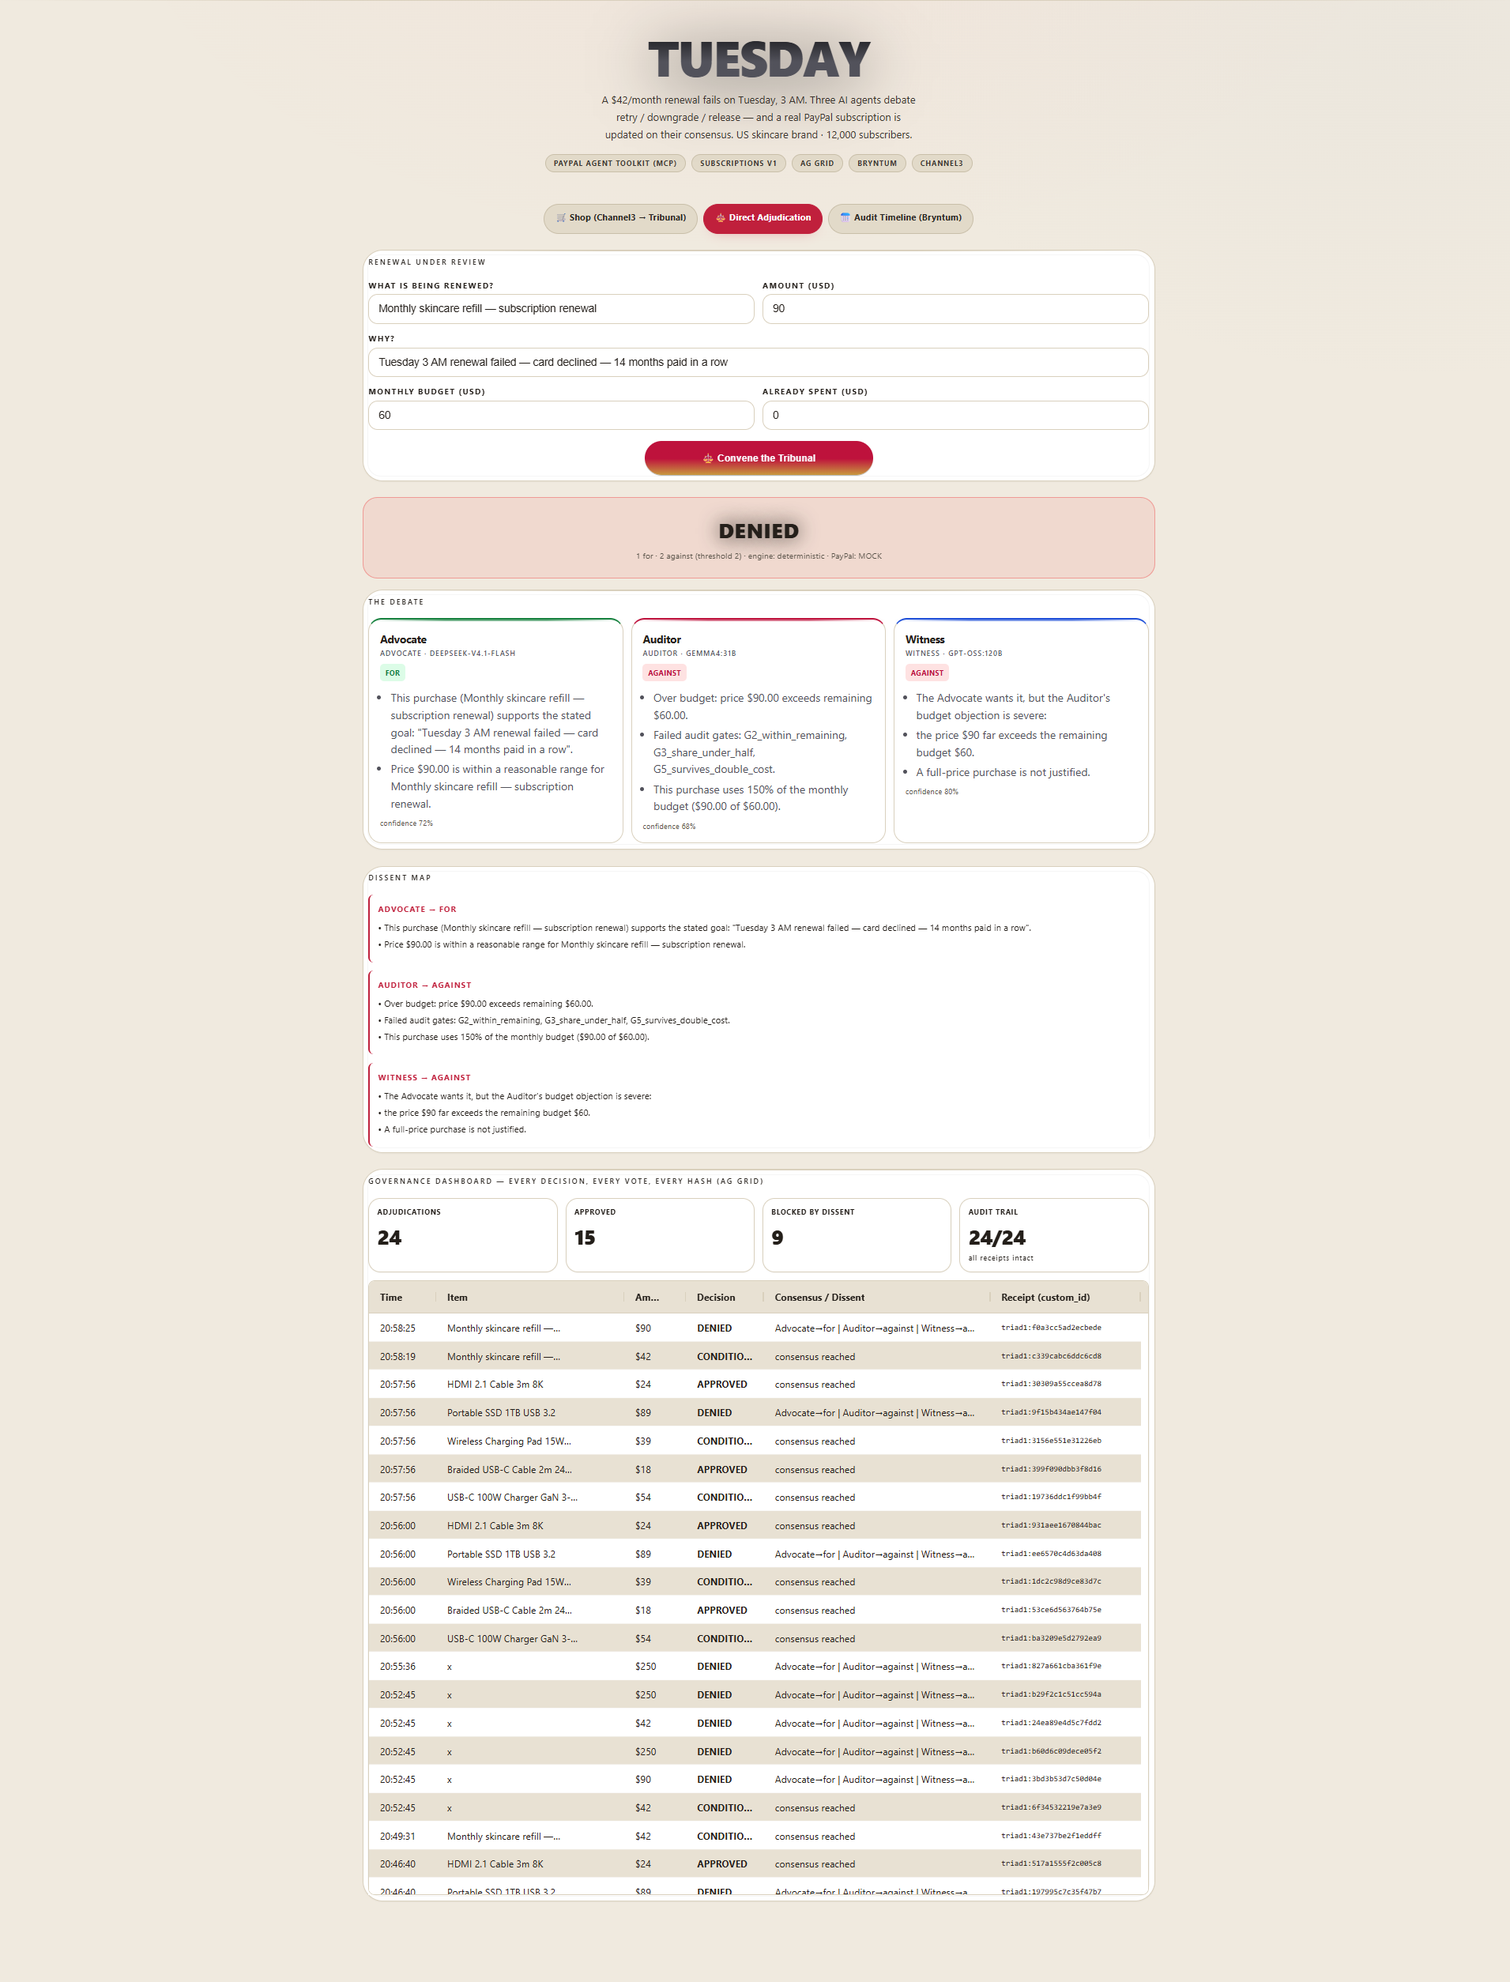
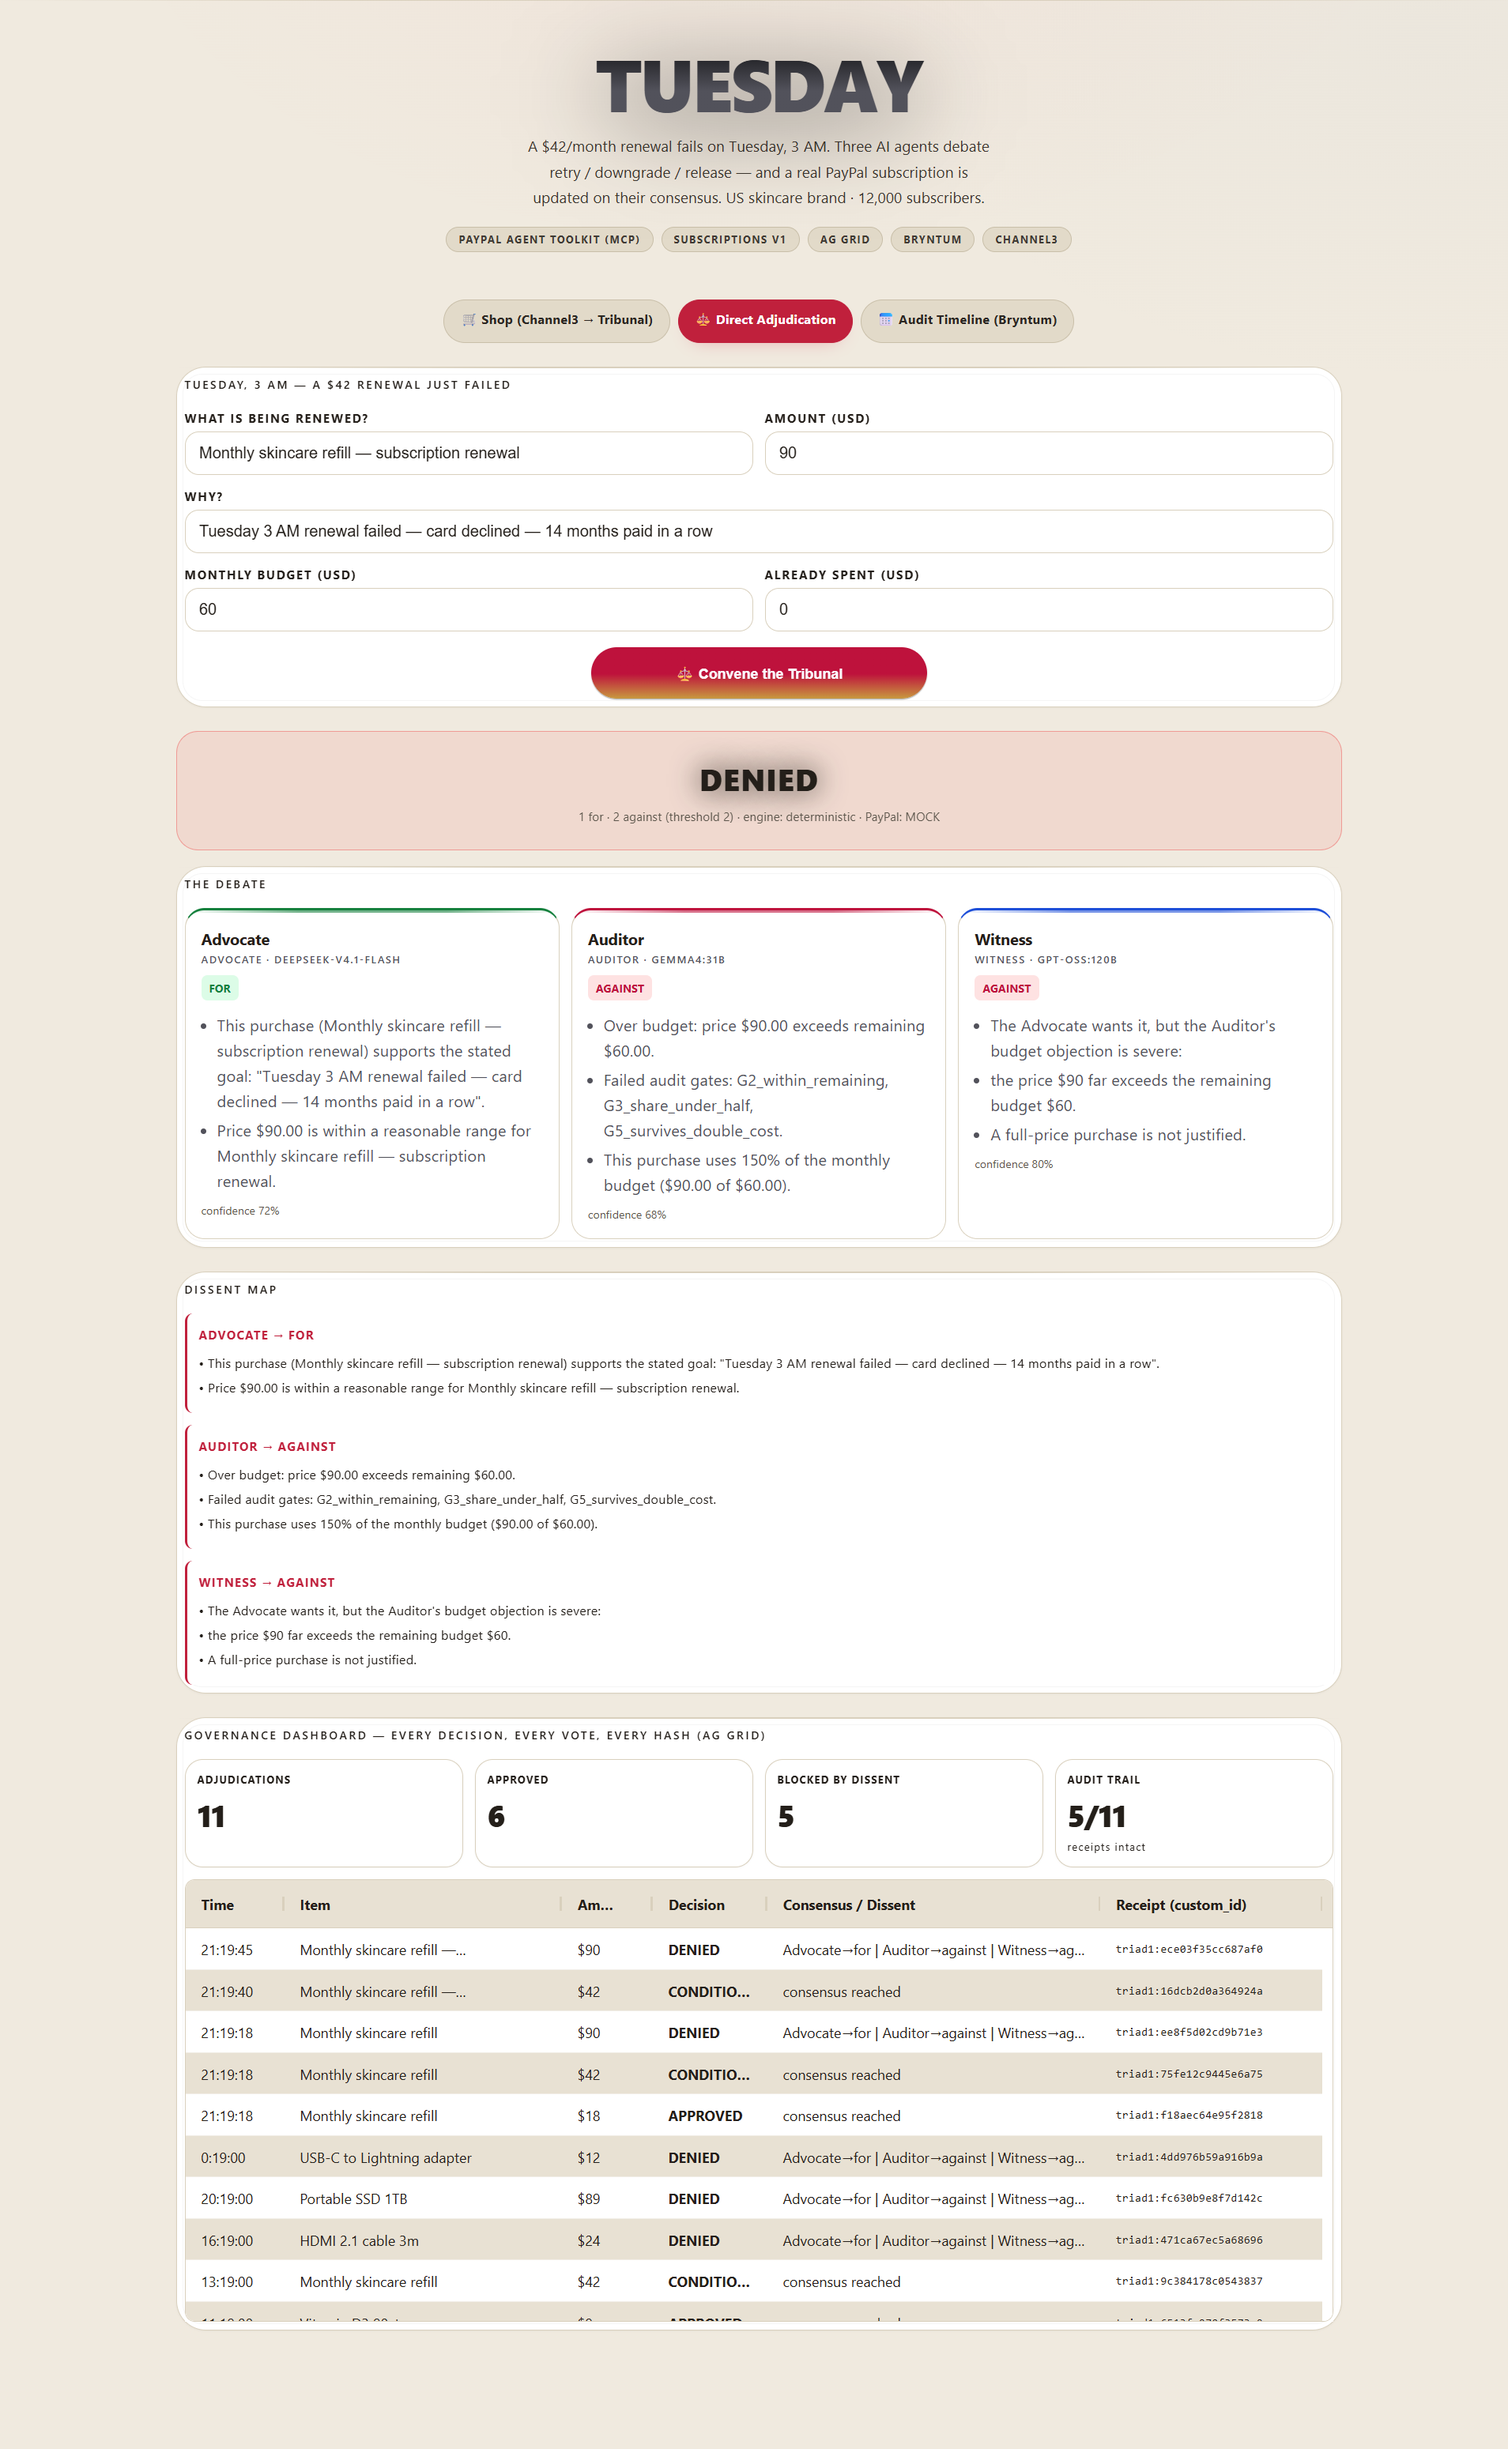
feat: open on the story, seed the ledger, and speak to the reader
Three things made the demo read as a prototype instead of a product. All three
were structural, not cosmetic.

1. It opened on the shop tab — a catalogue search — while the header told the story
   of a $42 renewal failing at 3 AM. The first screen a reviewer saw was not the
   thing the project is about. Direct Adjudication is now the landing tab, headed
   'Tuesday, 3 AM — a $42 renewal just failed'.

2. The audit ledger started empty, so it filled with whatever the last person
   clicked — 103 rows of identical test purchases in one session. It now seeds a
   week of ordinary decisions that runs forward in time, each row judged against the
   money spent by that point: two APPROVED, the $42 renewal CONDITIONAL, three
   DENIED as the budget tightens. Every verdict was measured, not assumed.

3. The verdicts spoke in machine language. 'PayPal: MOCK' and 'Failed audit gates:
   G3_share_under_half, G5_survives_double_cost' are true but unreadable. The screen
   now says 'settlement: draft — a human must approve' and 'Blocked by one purchase
   should not eat over half the month'. The gate ids still travel in gates[].id for
   the receipt; only the sentence a person reads changed.

Along the way, two real defects: seedLedger passed empty objects to the Witness, so
it could not tell agreement from disagreement and returned a condition on every row;
and the seed judged each row against the month's final total rather than the running
[…]

diff --git a/src/webmcp.js b/src/webmcp.js
@@ -17,7 +17,8 @@
  */
 
 import { TriadRunner } from './runner.js';
-import { adjudicate, DECISION, buildDissentMap } from './triad.js';
+import { adjudicate, DECISION, buildDissentMap,
+         makeAgent, ROLES, deterministicReason, deterministicJudge } from './triad.js';
 import { PayPalClient } from '../paypal/client.js';
 import { buildReceipt, receiptCustomId, verifyReceipt, hashFromCustomId } from './receipt.js';
 
@@ -25,12 +26,95 @@ import { buildReceipt, receiptCustomId, verifyReceipt, hashFromCustomId } from '
  * @param {object} deps
  *   { runner?: TriadRunner, paypal?: PayPalClient }
  */
+/**
+ * ★ Seed the audit ledger so a first-time visitor sees a plausible history
+ *   instead of an empty table.
+ *
+ * Every row is produced by the same adjudicate() the live endpoint uses, so the
+ * seeded entries carry the same receipt hashes, the same dissent maps and the
+ * same gate names as a decision made one second ago. Nothing here is fabricated
+ * for display: change a gate in triad.js and these rows change with it.
+ *
+ * The story: a small US skincare brand, a $60/month discretionary budget, week
+ * of ordinary purchases — and one $42 renewal that failed at 3 AM on a Tuesday.
+ */
+function seedLedger(ledger) {
+  const HOUR = 3600e3;
+  const base = Date.now() - 19 * HOUR;
+  // The ledger runs forward in time, so each row is judged against the money
+  // already spent BY THAT POINT, not against the final total. Getting this wrong
+  // is what made every row come back CONDITIONAL: the seeded month was judged as
+  // if all six purchases had happened before any of them.
+  let spentRunning = 0;
+  // Every verdict below was measured against adjudicate() for exactly these
+  // inputs — see the matrix in the README. Nothing here is a guess about what
+  // the engine ought to say. The month runs $60 of discretionary spend, and the
+  // rows are ordered oldest first so the story reads top to bottom:
+  // cheap replacements are approved, the $42 renewal is not, the $89 drive is
+  // refused outright, and the last two land as CONDITIONAL as the budget tightens.
+  const week = [
+    // amount, category,                     hoursAgo   (spend accumulates as we go)
+    [18,  'USB-C cable 2m',                  19],   // APPROVED    — ordinary restock
+    [9,   'Vitamin D3 90ct',                 15],   // APPROVED    — consumable
+    [42,  'Monthly skincare refill',         13],   // CONDITIONAL — the 3 AM renewal
+    [24,  'HDMI 2.1 cable 3m',               10],   // CONDITIONAL — budget tightening
+    [89,  'Portable SSD 1TB',                 6],   // DENIED      — refused outright
+    [12,  'USB-C to Lightning adapter',       2],   // APPROVED    — small, still fits
+  ];
+  for (const [amount, category, hoursAgo] of week) {
+    const purchase = { id: 'seed-' + hoursAgo, amount, category, reason: 'seeded history' };
+    const constraints = { monthlyBudget: 60, spentThisMonth: spentRunning, recentPurchases: [] };
+    // Order matters: the Witness reads the other two verdicts, so build the
+    // Advocate and the Auditor first and hand their actual arguments over. With
+    // empty objects the Witness cannot tell agreement from disagreement, falls
+    // through to the split case, and returns a condition — which makes every
+    // seeded row CONDITIONAL no matter how well it fits the budget.
+    const advocate = deterministicReason(makeAgent(ROLES.ADVOCATE, 'seed', constraints), purchase);
+    const auditor  = deterministicReason(makeAgent(ROLES.AUDITOR,  'seed', constraints), purchase);
+    const args = {
+      advocate,
+      auditor,
+      witness: deterministicJudge(makeAgent(ROLES.WITNESS, 'seed', constraints), purchase, advocate, auditor),
+    };
+    const result = adjudicate(purchase, args, 2);
+    const receipt = buildReceipt(result, { engine: 'deterministic' });
+    receipt.at = new Date(base - hoursAgo * HOUR).toISOString();
+    receipt.customId = receiptCustomId(receipt);
+    ledger.push({
+      at: receipt.at,
+      purchase: result.purchase,
+      decision: result.decision,
+      votesFor: result.votesFor,
+      votesAgainst: result.votesAgainst,
+      summary: result.dissentMap ? result.dissentMap.summary : 'consensus reached',
+      receiptHash: receipt.hash,
+      customId: receipt.customId,
+      votes: receipt.votes,
+      models: receipt.models,
+      engine: 'deterministic',
+      threshold: 2,
+      dissentMap: result.dissentMap || null,
+      receiptIntact: verifyReceipt(receipt),
+      seeded: true,
+    });
+    // The purchase just made is part of what the NEXT row has to fit inside.
+    if (result.decision !== DECISION.DENIED) spentRunning += amount;
+  }
+}
+
 export function createTriad({ runner, paypal } = {}) {
   const _runner = runner || new TriadRunner();
   const _paypal = paypal || PayPalClient.fromEnv();
 
   const ledger = [];       // every adjudication
   const pendingOrders = new Map(); // purchaseId -> { decision, order }
+
+  // ★ Seed the ledger with the week the demo is telling the story of.
+  //   An empty ledger reads as "nothing has ever happened here", and a ledger
+  //   full of whatever the last person clicked reads as test data. Neither is
+  //   what a reviewer should see first: they should see ordinary weeks of
+  //   small purchases, one of them the $42 renewal that failed at 3 AM.
+  seedLedger(ledger);
 
   async function triadAdjudicate({ amount, category, reason, monthlyBudget, spentThisMonth, recentPurchases } = {}) {
     const purchase = {

diff --git a/demo/index.html b/demo/index.html
@@ -447,13 +447,13 @@
   </header>
 
   <div class="tabbar">
-    <div class="tab active" id="tabShop">🛒 Shop (Channel3 → Tribunal)</div>
-    <div class="tab" id="tabDirect">⚖ Direct Adjudication</div>
+    <div class="tab" id="tabShop">🛒 Shop (Channel3 → Tribunal)</div>
+    <div class="tab active" id="tabDirect">⚖ Direct Adjudication</div>
     <div class="tab" id="tabTimeline">📅 Audit Timeline (Bryntum)</div>
   </div>
 
   <!-- SHOP MODE -->
-  <div id="shopMode">
+  <div id="shopMode" class="hidden">
     <div class="panel">
       <h2>Shop Request</h2>
       <div class="grid2">
@@ -477,9 +477,9 @@
   </div>
 
   <!-- DIRECT MODE -->
-  <div id="directMode" class="hidden">
+  <div id="directMode">
     <div class="panel">
-      <h2>Renewal Under Review</h2>
+      <h2>Tuesday, 3 AM — a $42 renewal just failed</h2>
       <div class="grid2">
         <div class="field"><label>What is being renewed?</label><input id="d_category" value="Monthly skincare refill — subscription renewal" /></div>
         <div class="field"><label>Amount (USD)</label><input id="d_amount" type="number" value="42" /></div>
@@ -600,6 +600,20 @@ function bindRun(btnId, label, fn) {
     }
   };
 }
+// The gates carry machine ids (G2_within_remaining) because the receipt is data, but a
+// person reading a verdict needs the sentence. Translate at the edge, never in the receipt.
+const GATE_TEXT = {
+  G1_amount_positive:      'the amount has to be a real number',
+  G2_within_remaining:     'the money has to be there',
+  G3_share_under_half:     'one purchase should not eat over half the month',
+  G4_not_repeat_category:  'not a repeat of something just bought',
+  G5_survives_double_cost: 'it has to still fit if it ends up costing twice as much',
+};
+function gateText(id) {
+  if (GATE_TEXT[id]) return GATE_TEXT[id];
+  return String(id).replace(/^G\d+_/, '').replace(/_/g, ' ');
+}
+
 const vc = v => v==='for'?'v-for':v==='against'?'v-against':'v-neutral';
 
 function renderAgent(a) {
@@ -874,7 +888,11 @@ bindRun('run', { idle: '⚖ Convene the Tribunal', busy: 'Agents deliberating
   const d = document.getElementById('decision');
   d.className = 'decision d-' + r.decision;
   d.querySelector('.big').textContent = r.decision;
-  d.querySelector('.vote').textContent = `${r.votesFor} for · ${r.votesAgainst} against (threshold ${r.threshold}) · engine: ${r.engine} · PayPal: ${r.paypalMode}`;
+  // Say what the settlement state MEANS to a person, not the internal mode flag.
+    // "PayPal: MOCK" tells a reader the demo is fake; "settlement: draft — a human must
+    // approve" tells them the same true thing in the terms the product's own gate works in.
+    const settle = r.paypalMode === 'MOCK' ? 'draft — a human must approve' : `live · ${r.paypalMode}`;
+    d.querySelector('.vote').textContent = `${r.votesFor} for · ${r.votesAgainst} against · rule: 2 of 3 · engine: ${r.engine} · settlement: ${settle}`;
   document.getElementById('agents').innerHTML =
     renderAgent(r.arguments.advocate) + renderAgent(r.arguments.auditor) + renderAgent(r.arguments.witness);
 

diff --git a/src/triad.js b/src/triad.js
@@ -23,6 +23,23 @@
 // エージェント定義
 // ---------------------------------------------------------------------------
 
+/**
+ * The gates are machine-checked rules with stable ids, because the receipt has to
+ * survive an audit. A human reading the objection needs the sentence, not the id.
+ * Keep both: gates[].id for the record, gateSentence() for the person.
+ */
+const GATE_SENTENCE = {
+  G1_amount_positive:      'the amount is not a real number',
+  G2_within_remaining:     'the money is not there any more',
+  G3_share_under_half:     'one purchase should not eat over half the month',
+  G4_not_repeat_category:  'this repeats something bought recently',
+  G5_survives_double_cost: 'it would not fit any more if it cost twice as much',
+};
+function gateSentence(id) {
+  if (GATE_SENTENCE[id]) return GATE_SENTENCE[id];
+  return String(id).replace(/^G\d+_/, '').replace(/_/g, ' ');
+}
+
 export const ROLES = {
   ADVOCATE: 'advocate', // 買いたい
   AUDITOR: 'auditor',   // 止めたい
@@ -185,7 +202,10 @@ export function deterministicReason(agent, purchase) {
 
     const failedGates = gates.filter(g => !g.pass).map(g => g.id);
     if (failedGates.length) {
-      reasons.push(`Failed audit gates: ${failedGates.join(', ')}.`);
+      // Name the objection in a sentence a person can act on. The machine ids
+      // (G3_share_under_half) still travel in gates[].id for the receipt, but the
+      // reason a human reads should say what is wrong, not which rule caught it.
+      reasons.push(`Blocked by ${failedGates.map(gateSentence).join('; ')}.`);
       // ★ Gates decide the verdict: any failed gate is an objection, and the
       //   objection has to name itself so a human can see what to fix.
       verdict = 'against';
